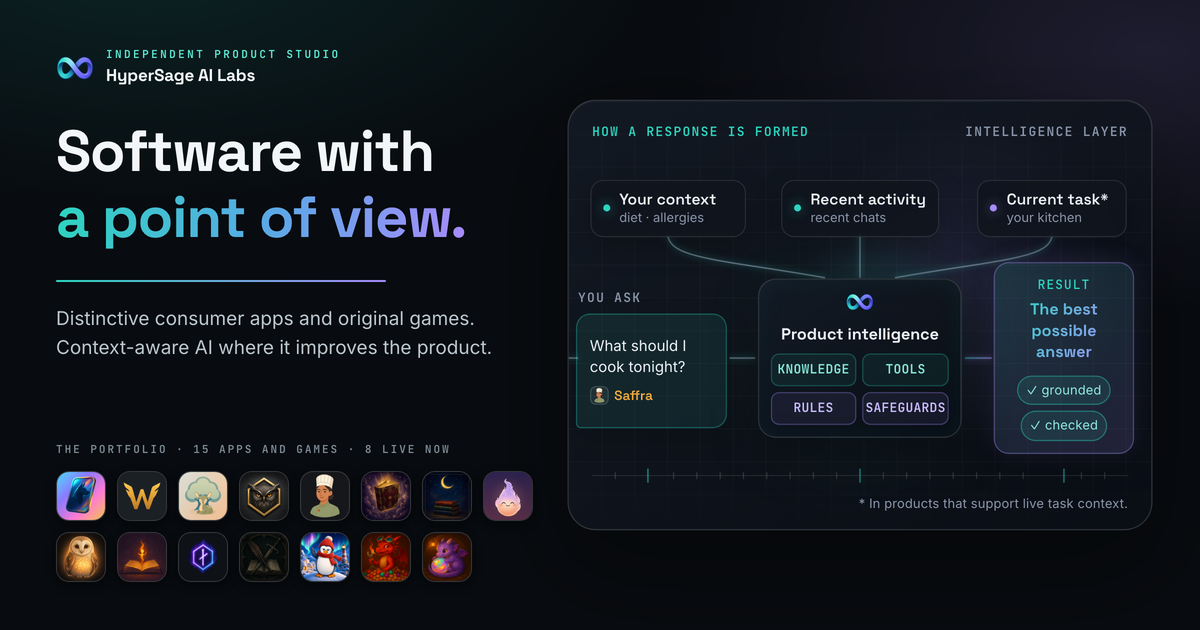
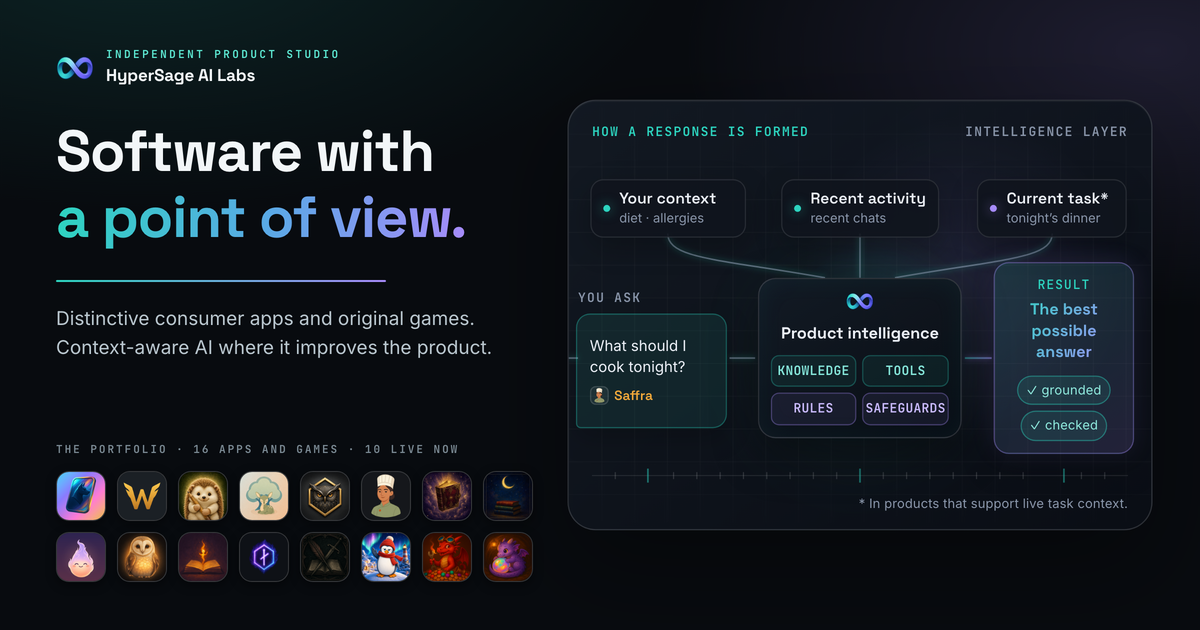
Share card: 16 products and 10 live, not 15 and 8 — the builder had refused since Loam
og-image.png is rendered FROM index.html by tools/build_og.py so the
link preview cannot drift from the page. It drifted anyway, by refusing:
the builder names each product from a NAMES table, exits when a product
id on the page is missing from it, and Loam (added 2026-08-31) never
went in. Nobody ran --check in the ten days since, so the card every
iMessage, Slack, X and LinkedIn share shows for hypersage.ai still said
"THE PORTFOLIO · 15 APPS AND GAMES · 8 LIVE NOW" against a page with 16
products and 10 live, and its diagram said "your kitchen" where the
page now says "tonight's dinner". A builder that stops is as stale as
one that was never written; --check is the only thing that notices.

Added "loam": "Loam" to NAMES and re-rendered: 16 tiles, "16 APPS AND
GAMES · 10 LIVE NOW", both counts derived from the page's status chips
as before. og:image, twitter:image and the JSON-LD image URL move from
?v=20260825d to ?v=20260904a so crawlers refetch rather than serve their
cached copy of the old card.

waddleton/og-image.inputs.sha256 is re-stamped because this afternoon's
metadata fix (15 -> 17 arcade games) moved the page under its card;
the rendered PNG is byte-identical, so its ?v= stays.

build_og.py --check: 0. build_app_og.py --check: 0.

diff --git a/index.html b/index.html
@@ -17,7 +17,7 @@
   <meta property="og:description" content="HyperSage is an independent studio building distinctive consumer apps and original games, with context-aware AI where it improves the product.">
   <meta property="og:url" content="https://hypersage.ai/">
   <meta property="og:site_name" content="HyperSage AI Labs">
-  <meta property="og:image" content="https://hypersage.ai/og-image.png?v=20260825d">
+  <meta property="og:image" content="https://hypersage.ai/og-image.png?v=20260904a">
   <meta property="og:image:type" content="image/png">
   <meta property="og:image:width" content="1200">
   <meta property="og:image:height" content="630">
@@ -25,7 +25,7 @@
   <meta name="twitter:card" content="summary_large_image">
   <meta name="twitter:title" content="HyperSage AI Labs — Independent Product Studio">
   <meta name="twitter:description" content="HyperSage is an independent studio building distinctive consumer apps and original games, with context-aware AI where it improves the product.">
-  <meta name="twitter:image" content="https://hypersage.ai/og-image.png?v=20260825d">
+  <meta name="twitter:image" content="https://hypersage.ai/og-image.png?v=20260904a">
   <meta name="twitter:image:alt" content="HyperSage AI Labs — an independent product studio">
 
   <link rel="icon" type="image/png" href="favicon.png">
@@ -42,7 +42,7 @@
         "legalName": "HyperSage AI Labs LLC",
         "url": "https://hypersage.ai/",
         "logo": "https://hypersage.ai/apple-touch-icon.png",
-        "image": "https://hypersage.ai/og-image.png?v=20260825d",
+        "image": "https://hypersage.ai/og-image.png?v=20260904a",
         "description": "An independent studio building distinctive consumer apps and original games, with context-aware AI where it improves the product.",
         "email": "support@hypersage.ai",
         "address": { "@type": "PostalAddress", "addressRegion": "DE", "addressCountry": "US" }

diff --git a/tools/build_og.py b/tools/build_og.py
@@ -44,6 +44,7 @@ NAMES = {
     "hexhunter": "Hexhunter", "mythwright": "Mythwright", "rowan": "Rowan",
     "alder": "Alder", "waddleton": "Waddleton", "mythkin": "Mythkin",
     "holohound": "Holohound", "hoardling": "Hoardling", "gemburrow": "Gemburrow",
+    "loam": "Loam",
 }
 
 
